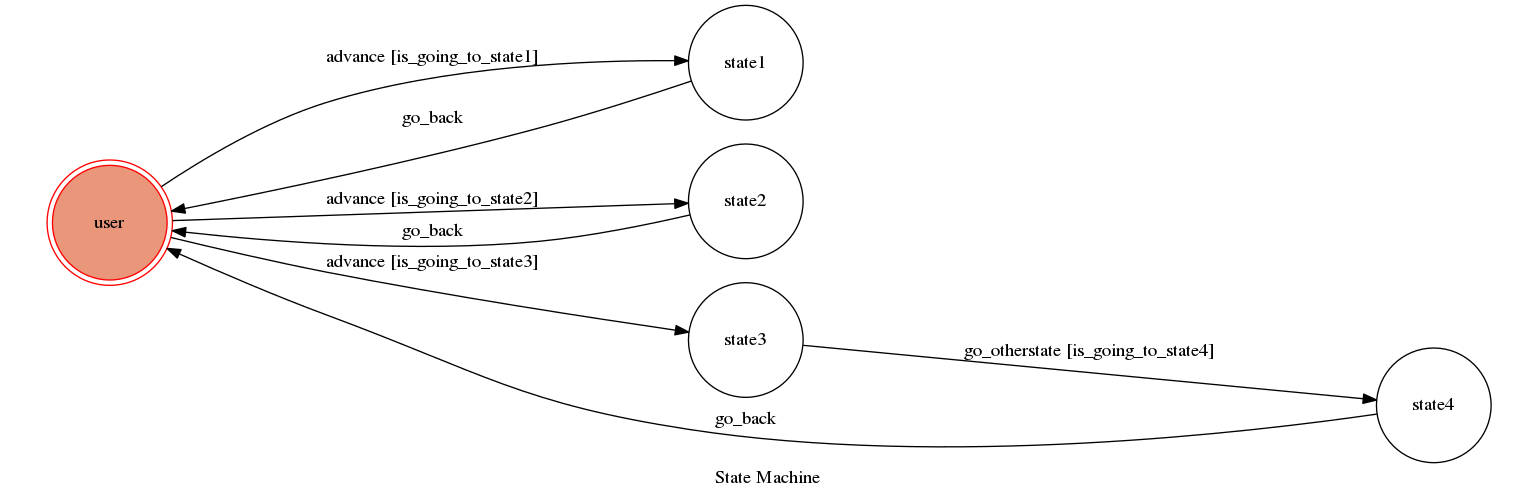
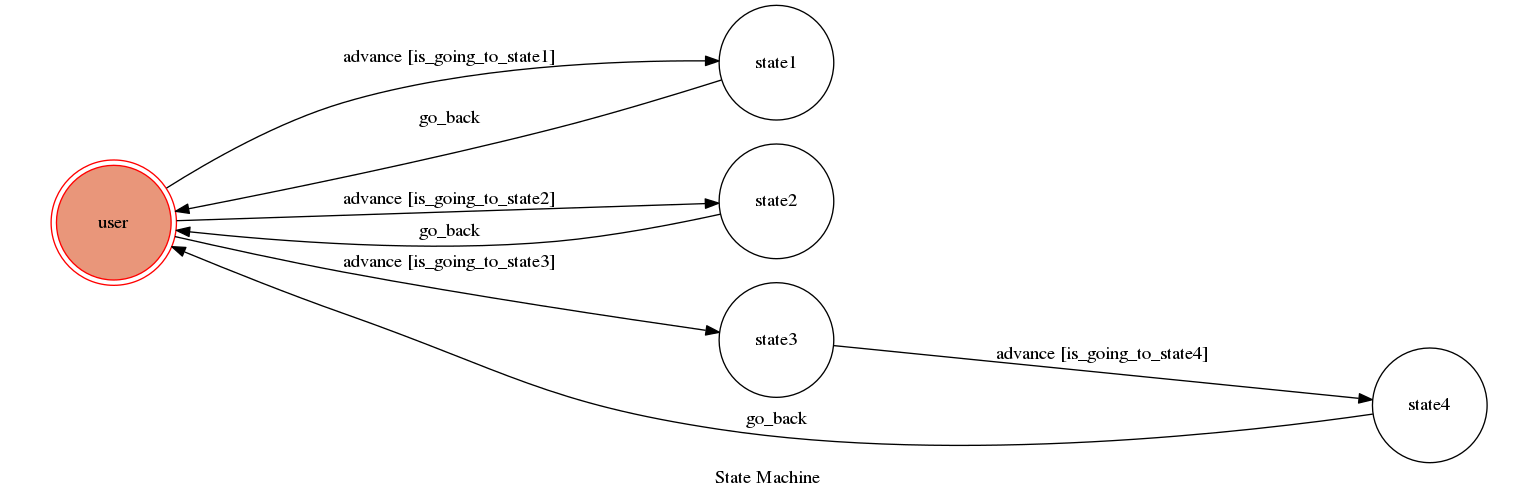
last

diff --git a/test.py b/test.py
@@ -40,6 +40,12 @@ class TocMachine(GraphMachine):
                     'conditions': 'is_going_to_state3'
                 },
                 {
+                    'trigger': 'advance',
+                    'source': 'state3',
+                    'dest': 'state4',
+                    'conditions': 'is_going_to_state4'
+                },
+                {
                     'trigger': 'go_back',
                     'source': [
                         'state1',
@@ -48,12 +54,6 @@ class TocMachine(GraphMachine):
                         
                     ],
                     'dest': 'user'
-                },
-                {
-                    'trigger': 'go_otherstate',
-                    'source': 'state3',
-                    'dest': 'state4'
-                    #'conditions':'is_going_to_state4'
                 }
 
             ],
@@ -72,7 +72,7 @@ class TocMachine(GraphMachine):
     
     def is_going_to_state3(self, update):
         text = update.message.text
-        return text.lower() == 'are u a good robot?'
+        return text.lower() == 'lets play a game'
     def is_going_to_state4(self,update):
         judge = 0 
         if(update.message.text.lower()=='chose1'):
@@ -112,24 +112,22 @@ class TocMachine(GraphMachine):
 
     def on_enter_state3(self, update):
         update.message.reply_text("I'm entering state3")
-        #testkeyboard = [['chose1'],['chose2']]
-        #reply_keybaord = ReplyKeyboardMarkup(testkeyboard)
-        #update.message.reply_text(text="which choice do u want to take",reply_markup=reply_keybaord)
-        self.go_otherstate(update)
+        testkeyboard = [['chose1'],['chose2']]
+        reply_keybaord = ReplyKeyboardMarkup(testkeyboard)
+        update.message.reply_text(text="which choice do u want to make",reply_markup=reply_keybaord)
+     
 
     def on_exit_state3(self, update):
         print('Leaving state3')
     
-    
     def on_enter_state4(self, update):
 
-        #reply_keybaord = ReplyKeyboardRemove()
-        #update.message.reply_text(text="done",reply_markup=reply_keybaord)
-        update.message.reply_text("yes i am")
-        #if(update.message.text.lower()=='chose1'):
-            #update.message.reply_text("I 11")
-        #else:
-            #update.message.reply_text("I22")
+        reply_keybaord = ReplyKeyboardRemove()
+        update.message.reply_text(text="",reply_markup=reply_keybaord)
+        if(update.message.text.lower()=='chose1'):
+            update.message.reply_text("bad choice")
+        else:
+            update.message.reply_text("good choice")
         self.go_back(update)
 
     def on_exit_state4(self, update):
@@ -156,8 +154,6 @@ def echo(bot, update):
     # update.message.reply_text(update.message.text)
     machine.advance(update)
 
-def echo2(bot, update):
-    machine.go_otherstate(update)
 
 def error(bot, update, error):
     """Log Errors caused by Updates."""
@@ -178,7 +174,7 @@ def main():
 
     # on noncommand i.e message - echo the message on Telegram
     dp.add_handler(MessageHandler(Filters.text, echo))
-    dp.add_handler(MessageHandler(Filters.text, echo2))
+    #dp.add_handler(MessageHandler(Filters.text, echo2))
 
     # log all errors
     dp.add_error_handler(error)
